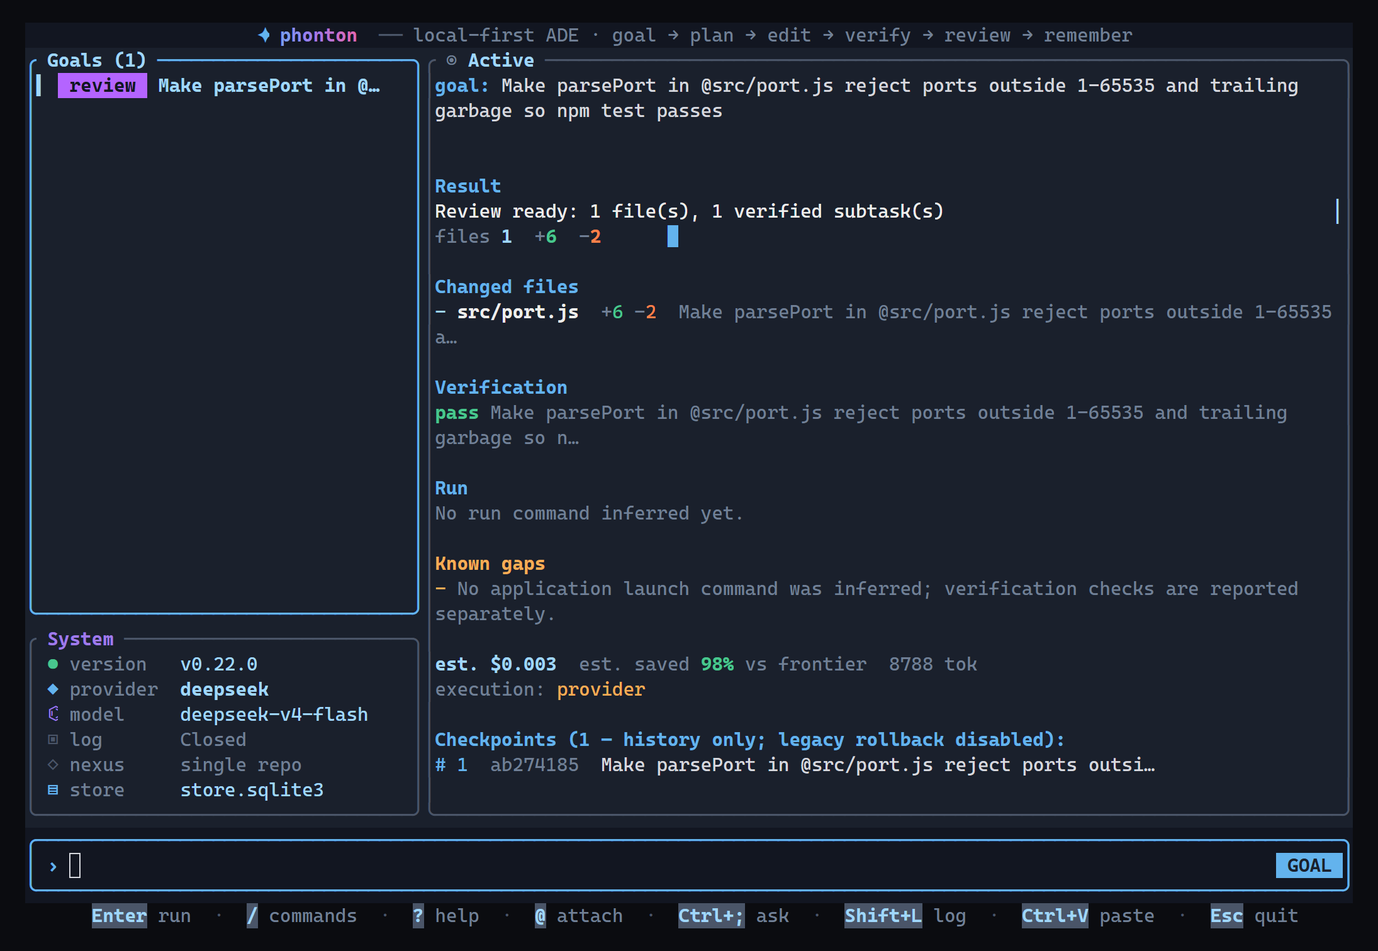
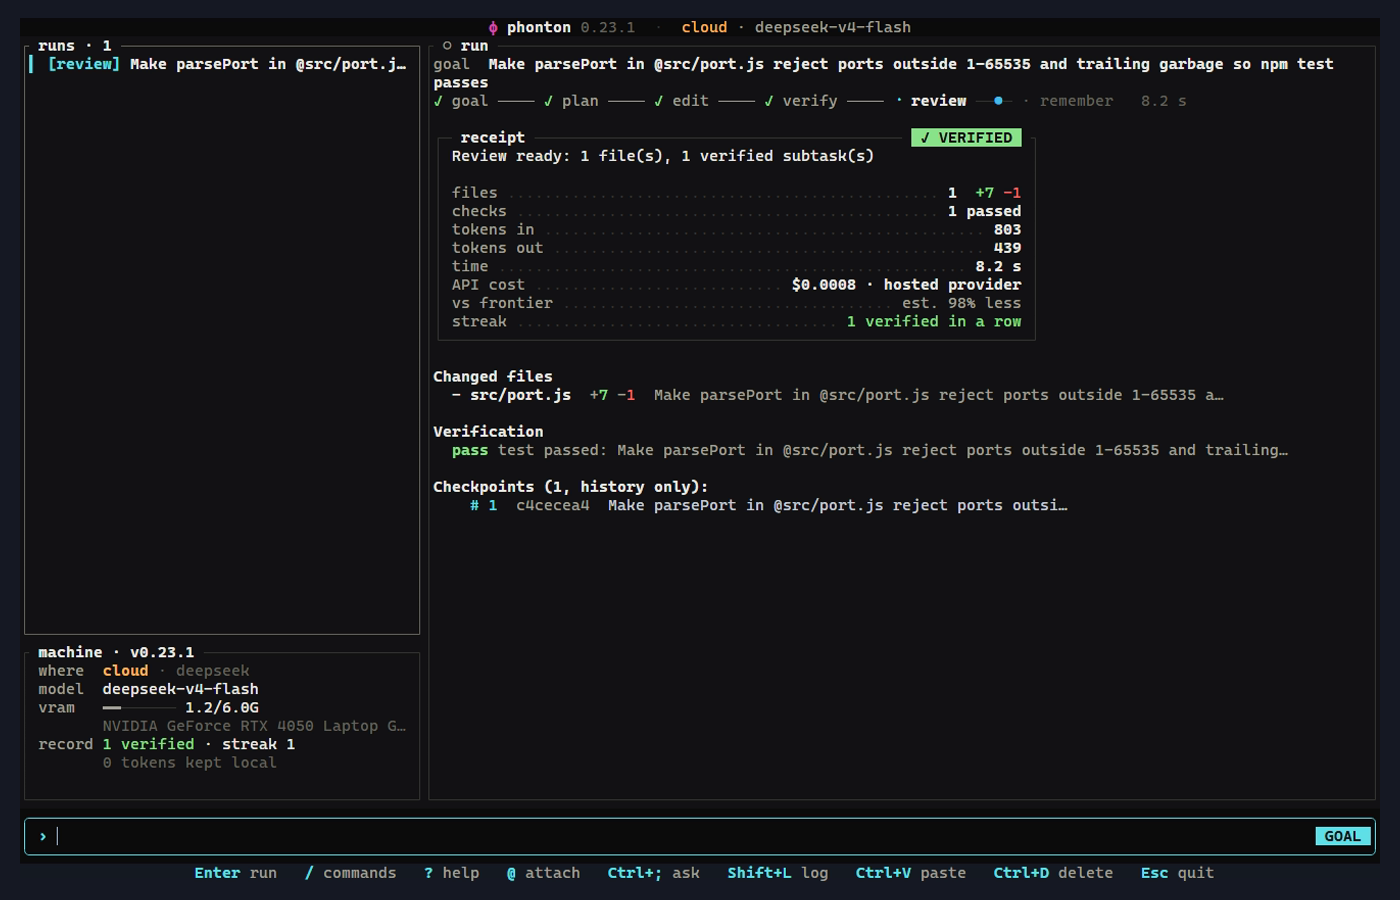
Release 0.23.1: receipts that agree, fresh README demo (#31)
* Release 0.23.1: one source for receipt tokens and cost, no launch-command gap, re-recorded README demo

* Count a failed attempt's tokens in the handoff receipt

Changed region(s): [[0.0, 0.0, 0.9985, 0.9956]]

diff --git a/phonton-orchestrator/src/lib.rs b/phonton-orchestrator/src/lib.rs
@@ -1386,9 +1386,16 @@ impl<D: WorkerDispatcher + ?Sized> Orchestrator<D> {
         let mut reached_test_layer = false;
 
         for rt in runtimes.values() {
+            // A failed attempt reports progress but no usage split; count it
+            // as estimated input so the receipt never shows fewer tokens than
+            // the run used.
+            let unsplit = rt
+                .tokens_used
+                .saturating_sub(rt.token_usage.budget_tokens());
             usage.input_tokens = usage
                 .input_tokens
-                .saturating_add(rt.token_usage.input_tokens);
+                .saturating_add(rt.token_usage.input_tokens)
+                .saturating_add(unsplit);
             usage.output_tokens = usage
                 .output_tokens
                 .saturating_add(rt.token_usage.output_tokens);
@@ -1398,7 +1405,7 @@ impl<D: WorkerDispatcher + ?Sized> Orchestrator<D> {
             usage.cache_creation_tokens = usage
                 .cache_creation_tokens
                 .saturating_add(rt.token_usage.cache_creation_tokens);
-            usage.estimated |= rt.token_usage.estimated;
+            usage.estimated |= rt.token_usage.estimated || unsplit > 0;
 
             let clean_desc = compact_description(&rt.subtask.description);
             match &rt.verify_result {
@@ -1511,12 +1518,8 @@ impl<D: WorkerDispatcher + ?Sized> Orchestrator<D> {
         if changed_files.is_empty() {
             known_gaps.push("No changed files were recorded for this run.".into());
         }
-        if run_commands.is_empty() {
-            known_gaps.push(
-                "No application launch command was inferred; verification checks are reported separately."
-                    .into(),
-            );
-        }
+        // A missing launch command is not a gap: libraries have none, and
+        // receipts list run commands only when there are some.
         if !reached_test_layer {
             known_gaps.push("No explicit test layer was recorded by this run.".into());
         }
@@ -2243,6 +2246,36 @@ mod tests {
             assert!(joins.is_empty());
             assert!(dispatcher.calls.lock().unwrap().is_empty());
         }
+    }
+
+    #[test]
+    fn handoff_counts_tokens_from_a_failed_attempt() {
+        let ok = subtask("first", vec![]);
+        let failed = subtask("second", vec![]);
+        let mut done = SubtaskRuntime::new(ok.clone(), NodeIndex::new(0));
+        done.tokens_used = 300;
+        done.token_usage = TokenUsage {
+            input_tokens: 200,
+            output_tokens: 100,
+            ..TokenUsage::default()
+        };
+        // Progress was reported, then dispatch returned Err: no usage split.
+        let mut lost = SubtaskRuntime::new(failed.clone(), NodeIndex::new(1));
+        lost.tokens_used = 50;
+        let runtimes = HashMap::from([(ok.id, done), (failed.id, lost)]);
+        let plan = PlannerOutput {
+            subtasks: vec![ok, failed],
+            estimated_total_tokens: 0,
+            naive_baseline_tokens: 0,
+            coverage_summary: CoverageSummary::default(),
+            goal_contract: None,
+            plan_graph: Default::default(),
+        };
+        let orch = Orchestrator::new(Arc::new(TrivialDispatcher::new()));
+        let packet = orch.build_handoff_packet(&plan, &runtimes, &TaskStatus::Queued, 350, &[]);
+        assert_eq!(packet.token_usage.input_tokens, 250);
+        assert_eq!(packet.token_usage.output_tokens, 100);
+        assert!(packet.token_usage.estimated);
     }
 
     #[tokio::test]

diff --git a/phonton-cli/src/main.rs b/phonton-cli/src/main.rs
@@ -3184,7 +3184,6 @@ fn render_centre(frame: &mut Frame, area: Rect, app: &App) {
             lines.extend(receipt_lines(app, g, state, handoff, width));
             append_local_review(&mut lines, g);
             append_handoff_lines(&mut lines, handoff);
-            lines.push(Line::raw(""));
         } else if let TaskStatus::Failed { reason, .. } = &g.status {
             lines.push(Line::from(vec![
                 Span::styled(
@@ -3203,7 +3202,8 @@ fn render_centre(frame: &mut Frame, area: Rect, app: &App) {
             )));
             lines.push(Line::raw(""));
         }
-        if state.tokens_used > 0 {
+        // Once the receipt is up it carries tokens and cost; one source only.
+        if state.tokens_used > 0 && state.handoff_packet.is_none() {
             lines.push(render_savings_line_styled(Some(state)));
         }
         if let Some(label) = execution_mode_label(g) {
@@ -3604,6 +3604,19 @@ fn receipt_lines(
         vec![num(receipt_cost(g, &h.cost_receipt))],
         inner,
     ));
+    if let Some(pct) = has_price(state)
+        .then(|| state.cost_receipt.saved_percent())
+        .flatten()
+    {
+        body.push(art::leader(
+            "vs frontier",
+            vec![Span::styled(
+                format!("est. {pct}% less"),
+                Style::default().fg(MUTED),
+            )],
+            inner,
+        ));
+    }
     if g.recorded {
         let streak = app.record.streak;
         body.push(art::leader(
@@ -9336,6 +9349,9 @@ more"
         assert!(dump.contains("Changed files"));
         assert!(dump.contains("chess.py"));
         assert!(dump.contains("Known gaps"));
+        // The receipt alone carries tokens; an unpriced run gets no estimate.
+        assert!(!dump.contains("240 tok"));
+        assert!(!dump.contains("vs frontier"));
         // Syntax passed but no test ran: the receipt must not claim VERIFIED,
         // and the run does not extend the streak.
         assert!(!dump.contains("✓ VERIFIED"));

diff --git a/release-notes/v0.23.1.md b/release-notes/v0.23.1.md
@@ -1,0 +1,37 @@
+# phonton-cli v0.23.1 — Receipts that agree
+
+A small polish release found while re-recording the README demo on 0.23.0.
+
+## One place for tokens and cost
+
+A finished run's TUI receipt already lists tokens in, tokens out and API
+cost. A second line under it repeated the cost and counted tokens from a
+different source, so a run could show 803 in + 1,558 out in the receipt and
+2,362 tokens a few lines below. That line now shows only while a goal runs.
+For models with a listed price, the "vs frontier" estimate moved into the
+receipt; unpriced and local models get none, as before.
+
+Tokens from a worker call that failed after reporting progress were left
+out of the receipt (the provider gave no input/output split). They now
+count as estimated input, so the receipt never shows fewer tokens than the
+run used.
+
+## Fewer non-gaps
+
+"No application launch command was inferred" is no longer listed under
+Known gaps. A library has no launch command, so the line appeared on almost
+every run without telling you anything. Run commands are still listed when
+Phonton infers some.
+
+## Fresh README demo
+
+The README hero and demo GIF are a new recording of this release (DeepSeek
+Flash on a small JavaScript repo). The previous ones came from 0.22.0 and
+still showed the "saved 100% vs Σ 35000" line that 0.22.3 removed.
+
+## Install
+
+```bash
+npm install -g phonton-cli
+phonton version    # phonton 0.23.1
+```

diff --git a/README.md b/README.md
@@ -13,7 +13,7 @@
 <p align="center">
   <a href="https://github.com/phonton-dev/phonton-cli/actions/workflows/ci.yml"><img alt="CI Status" src="https://github.com/phonton-dev/phonton-cli/actions/workflows/ci.yml/badge.svg"></a>
   <a href="https://github.com/phonton-dev/phonton-cli/stargazers"><img alt="GitHub stars" src="https://img.shields.io/github/stars/phonton-dev/phonton-cli?style=flat&label=stars&color=ff69b4"></a>
-  <img alt="release" src="https://img.shields.io/badge/release-v0.23.0--beta-6c63ff">
+  <img alt="release" src="https://img.shields.io/badge/release-v0.23.1--beta-6c63ff">
   <img alt="license" src="https://img.shields.io/badge/license-MIT%20OR%20Apache--2.0-blue">
 </p>
 
@@ -54,7 +54,7 @@ goal     Make parsePort reject ports outside 1-65535 and trailing garbage
 plan     1 subtask, verify with the repo's own `node --test`
 edit     unified diff against the exact current src/port.js
 verify   patch applies · syntax · tests: 3 pass, 0 fail (was 1 pass, 2 fail)
-review   receipt: 1 file (+6/-2) · 8.8k tokens · est. $0.003 · checkpoint #1
+review   receipt: 1 file (+7/-1) · 803 in / 439 out tokens · $0.0008 · 8.2 s · checkpoint #1
 remember completion stored locally for the next goal
 ```
 

diff --git a/CHANGELOG.md b/CHANGELOG.md
@@ -4,6 +4,22 @@ All notable Phonton CLI release changes should be documented here.
 
 This project follows pre-1.0 SemVer: minor versions may still include breaking changes while the public API and CLI surface settle.
 
+## 0.23.1 - Receipts that agree
+
+### Changed
+
+- [changed] The TUI receipt is the one place a finished run shows tokens and
+  cost. The line under it repeated the cost and counted tokens from a
+  different source (2,362 under a receipt of 803 in + 1,558 out); the
+  "vs frontier" estimate now sits in the receipt, for priced models only.
+- [fixed] Tokens from a worker call that failed after reporting progress
+  were missing from the receipt. They now count as estimated input.
+- [changed] "No application launch command was inferred" is no longer
+  listed as a known gap; libraries have none, and run commands are listed
+  when there are some.
+- [changed] README hero and demo GIF re-recorded on 0.23.0; the old ones
+  showed the removed "saved 100% vs Σ 35000" line.
+
 ## 0.23.0 - Local models on Linux and macOS
 
 ### Added
